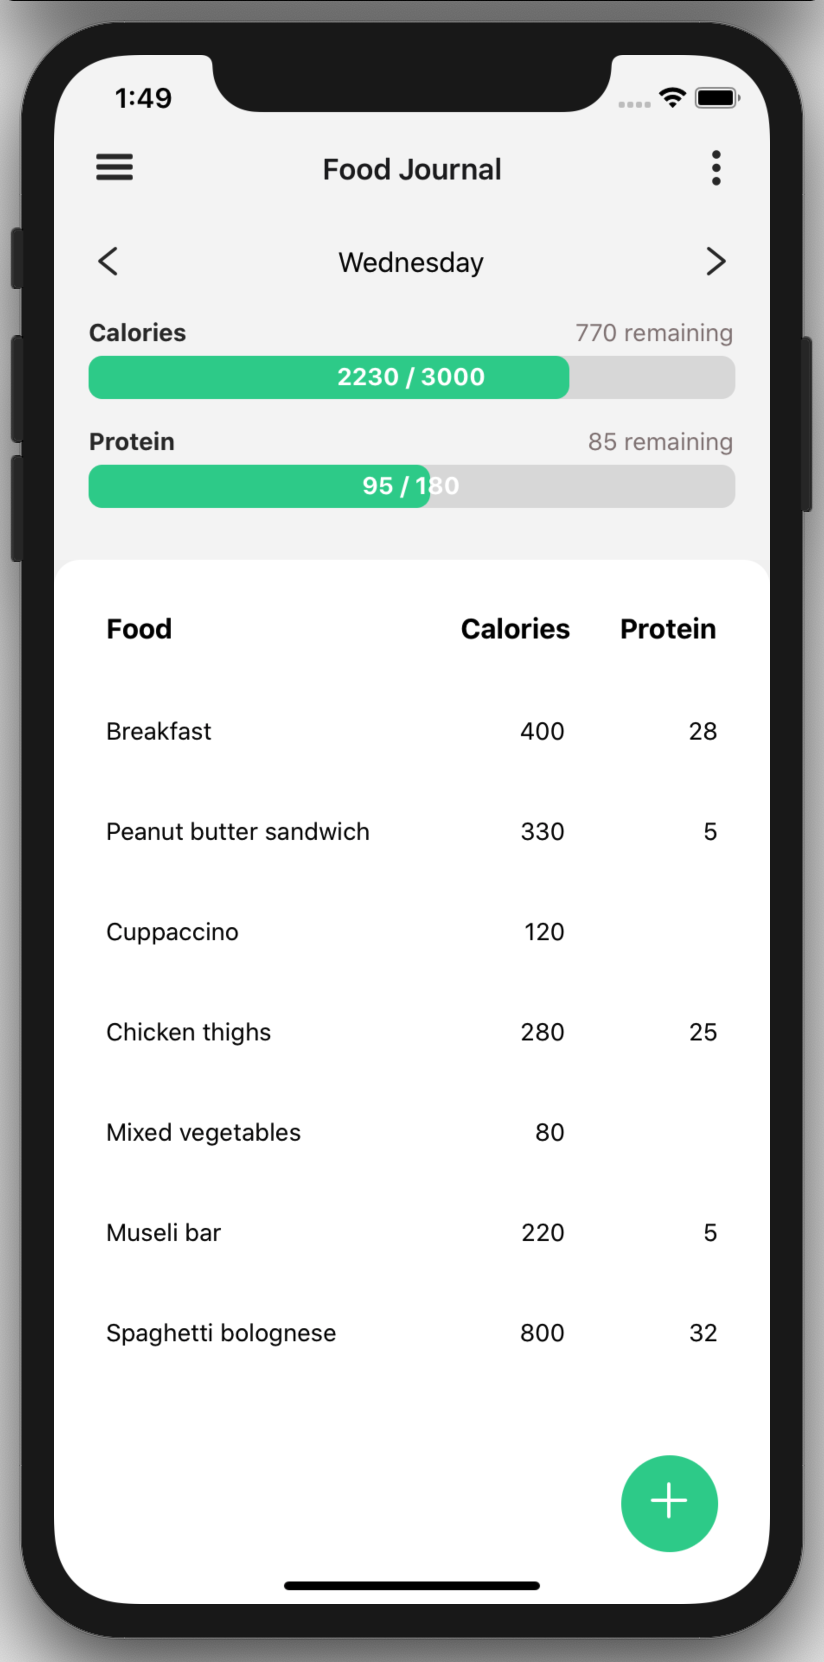
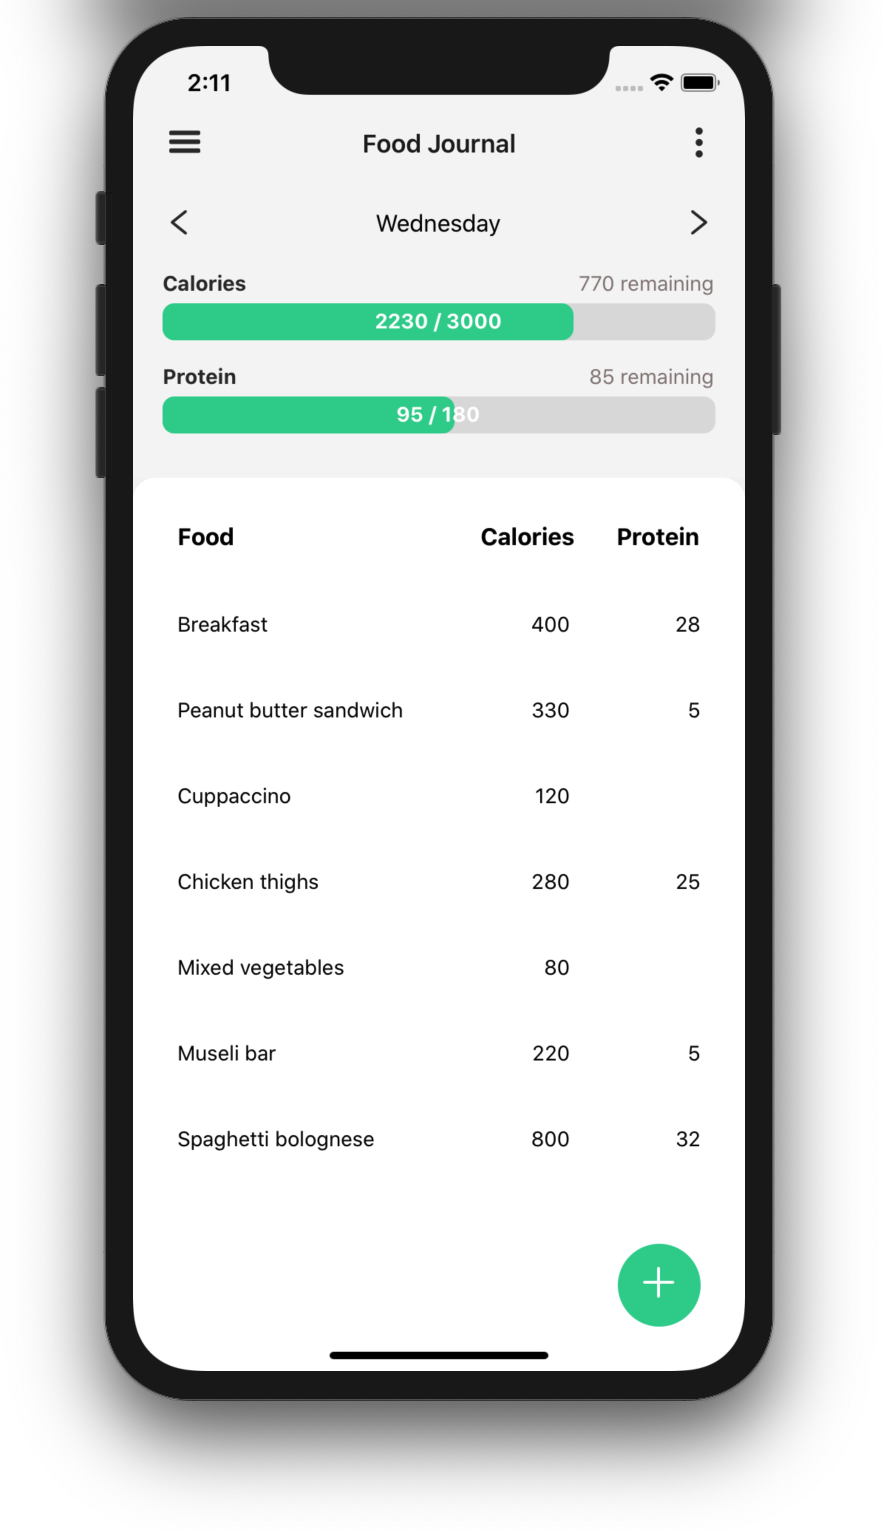
Updated readme

diff --git a/README.md b/README.md
@@ -3,10 +3,10 @@
 [![Author](https://img.shields.io/badge/Author-rhysgeary-brightgreen)](https://rhysgeary.com)
 [![Repo Link](https://img.shields.io/badge/Repo-Link-black.svg)](https://github.com/RhyG/nutrition-tracker-app)
 
-A dead simple daily calorie and protein. Built because all the other apps were overkill for someone who doesn't want to create an account, track graphs and generally has a good idea what the nutritional profile of their food is.
+A dead simple daily calorie and protein tracker. Built because all the other apps were overkill for someone who doesn't want to create an account, track graphs and generally has a good idea what the nutritional profile of their food is.
 
 <div align="center">
-  <img width="400" height="auto" src="assets/app_image.png">
+  <img width="300" height="auto" src="assets/app_image.png">
 </div>
 
 ## Features
